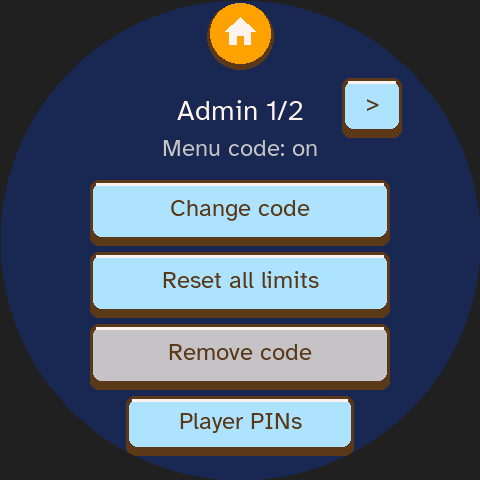
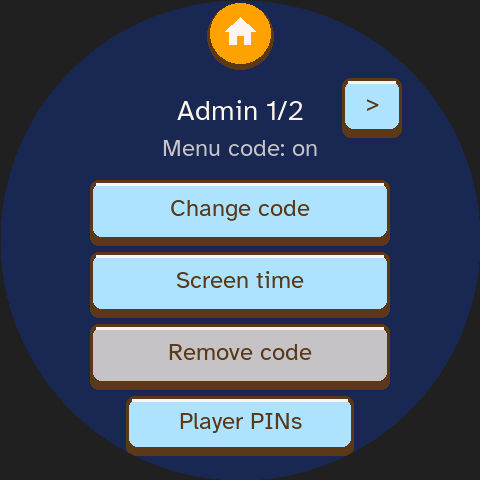
docs(porthole): re-capture admin playtest frames main changed

Changed region(s): [[0.3125, 0.5625, 0.6562, 0.625]]

diff --git a/apps/porthole/docs/admin-profiles-playtest/README.md b/apps/porthole/docs/admin-profiles-playtest/README.md
@@ -10,6 +10,10 @@ board. `build/host/snap` SHA-256:
[1 lines of base64/hex data omitted]
 ```
 
+Re-checked after merging main on 2026-10-31: the replay reproduced every frame of the New/delete gate unchanged.
+Four frames were re-captured because main changed screens outside this flow: `05-admin`, `08-saved` and
+`08b-saved-settled` (the admin menu's "Reset all limits" became "Screen time") and `21-launcher` (picture tiles, #99).
+
 ## Method and setup
 
 `snap --serve`, inspecting native 480x480 frames before choosing each next input. Entered the grown-up menu by
